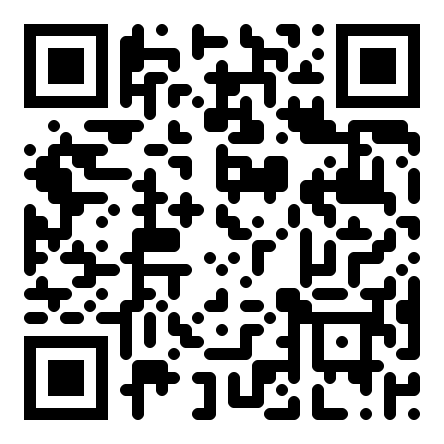
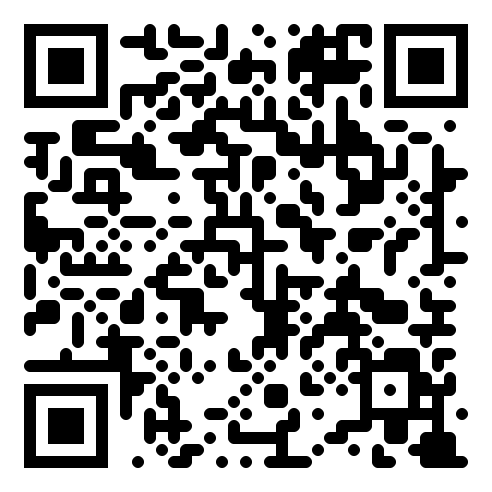
更新二维码指向实际部署地址

diff --git a/index.html b/index.html
@@ -619,7 +619,7 @@
     var url = window.location.href;
     // If opened locally, use a generic domain so the QR code is still useful
     if (url.startsWith('file://')) {
-      url = 'https://example.com/天顺乐邦'; // placeholder — replace after deployment
+      url = 'https://111yx111.github.io/tianshunlebang/'; // placeholder — replace after deployment
     }
     var box = document.getElementById('qrBox');
     if (box && typeof QRCode !== 'undefined') {
